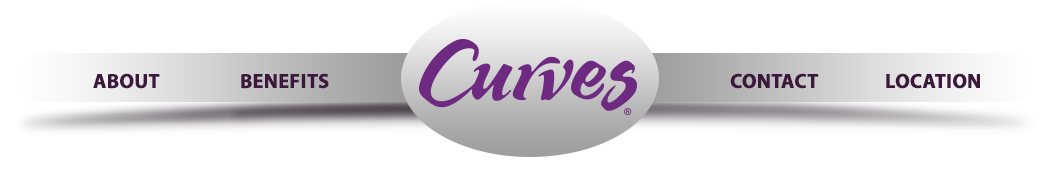
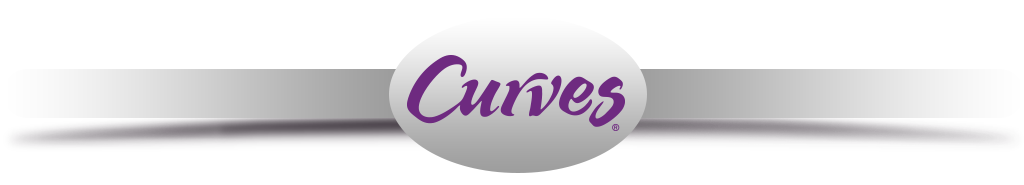
panel2
Added everything to panel 2, not fully responsive yet.

diff --git a/index.html b/index.html
@@ -11,7 +11,14 @@
 <body>
 	<div id="wrapper">
 		<div id="panel1" class="row">
-			<div class="col-lg-12"><img src="images/header.png" /></div>
+			<div id="navigation">
+				<ul>
+					<li class="navLeft"><a href="#rightCol2">about</a></li>
+					<li class="navLeft"><a href="#benefitsTop">benefits</a></li>
+					<li class="navRight"><a href="#">contact</a></li>
+					<li class="navRight"><a href="#">location</a></li>
+				</ul>
+			</div>
 			<div id="leftCol" class="col-lg-6"><img src="images/jillian1.png" /></div>
 			<div id="rightCol" class="col-lg-6">
 				<div id="spacer1"></div>
@@ -34,7 +41,55 @@
 
 			</div>
 		</div>
-	</div>
+	</div><!-- Panel 1 -->
+	<div class="row" id="dropShadow"></div>
+	
+	<div id="panel2">
+		<div id="spacer2"></div>
+			<div id="panel2height">
+			<div class="col-lg-4"><div id="leftColSpacer"></div> <img src="images/group.jpg"></div>
+			<div id="rightCol2" class="col-lg-8">
+				<p id="italic">Imagine being guided and mentored by <span>America's leading female fitness professional.</span> In real time. In a setting that allows for a connection between Jillian and yourself.<br>
+	It's all possible now with our exclusive videos tailored to Curves' state-of-the-art equipment.</p>
+	<p id="nonItalic">
+	You can work out with Jillian for as little as <span>$12 per week</span>, just minutes from your home in Port Jefferson Station.
+				</p>
+			</div>
+			<hr></hr>
+
+			<div id="typicalFitness" class="row">
+				<p>
+					Curves is <strong>not</strong> your typical fitness center.<br> 
+	In addition to our exclusive Jillian Michaels workouts, you'll find:
+				</p>
+			</div>
+
+			<div id="benefitsTop" class="row benefits">
+				<div class="col-lg-6">
+					
+							<p><img class="checkBox" src="images/checkBox.jpg" ><span>Curves Smart Technology</span><br>
+								A personalized platform to track/manage your workouts and nutrition</p>
+				</div>
+
+				<div class="col-lg-6">
+						<p><img class="checkBox" src="images/checkBox.jpg" ><span>Half Hour Computerized Programs</span><br>
+							Fully automated combination of strength and cardio allows you to work all major muscle groups in only 30 minutes  </p>
+				</div>
+			</div>
+
+			<div id="benefitsBottom" class="row benefits">
+				<div class="col-lg-6">
+						<p><img class="checkBox" src="images/checkBox.jpg" ><span>Women-Only Policy</span><br>
+							Work out in a comfortable and non-intimidating setting  </p>
+				</div>
+
+				<div class="col-lg-6">
+						<p><img class="checkBox" src="images/checkBox.jpg" ><span>One-On-One Guidance</span><br>
+							In-person coaching from our medically trained, in-house physical 	therapists </p>
+				</div>
+			</div>
+		</div>
+	</div><!-- Panel 2 -->
 
 <script src="http://code.jquery.com/jquery.js"></script>
 <script src="js/style.js"></script>

diff --git a/css/style.css b/css/style.css
@@ -23,6 +23,11 @@ CURVES
  * © 2014 MyFonts Inc
 */
 
+body {
+	margin: 0 auto;
+	padding: 0;
+}
+
 #wrapper {
 	width: 100%;
 	margin: 0 auto;
@@ -55,7 +60,51 @@ PANEL 1
 
 }
 
-#leftCol {
+#navigation{
+	background: url(../images/header.png) no-repeat center;
+	margin: 0 auto;
+	height: 185px;
+	width: 1024px;
+	font-family: helvetica;
+	font-size: 20pt;
+	font-variant: small-caps;
+	font-weight: bold;
+}
+
+#navigation ul{
+	text-decoration: none;
+	list-style: none;
+}
+
+#navigation a{
+	color: #3c183c;
+}
+
+#navigation a:hover {
+	text-decoration: none;
+	color: #5d245d;
+}
+
+#navigation .navLeft {
+	float: left;
+	text-decoration: none;
+	margin-top: 73px;
+	padding-left: 65px;
+}
+
+#navigation .navRight {
+	float: right;
+	text-decoration: none;
+	margin-top: 73px;
+	padding-right: 65px;
+}
+
+#panel1 #rightCol {
+
+}
+
+#panel1 #leftCol {
+
 }
 
 #panel1 #line1 {
@@ -136,8 +185,104 @@ PANEL 1
 	box-shadow: inset 3px 3px 15px -1px black;
 }
 
+/********************
+PANEL 2
+********************/
 
+#dropShadow {
+	background: url(../images/dropShadow.jpg)no-repeat center;
+	margin: 0 auto;
+	height:31px;
+}
 
+#panel2 {
+	background: white;
+	background-size: cover;
+	width: 70%;
+	margin: 0 auto;
+}
 
+hr {
+	width: 100%;
+	margin: 0 auto;
+	background-color: #e5be0e;
+	height: 2px;
+	margin-top: 10px;
+}
+
+#panel2 p {
+	font-family: HelveticaNeue-Light, helvetica;
+	font-size: 20pt;
+	color: #423f40;
+}
+
+#panel2 #rightCol2 #italic span{
+	color: #e5be0e;
+	font-style: italic;
+	font-weight: bold;
+}
+
+#panel2 #rightCol2 #nonItalic span{
+	color: #e5be0e;
+	font-weight: bold;
+}
+
+#leftColSpacer{
+	height: 50px;
+}
+
+#rightCol2 {
+	margin-bottom: 20px;
+}
+
+#typicalFitness {
+	font-family: helveticaNue-Light, helvetica;
+	font-size: 20pt;
+	color: #423f40;
+	text-align: center;
+	margin: 0 auto;
+	width: 80%;
+	margin-top: 20px;
+	margin-bottom: 50px;
+}
+
+#benefitsTop{
+	padding-bottom: 50px;
+}
+
+.checkBox {
+	float: left;
+	padding-bottom: 100px;
+}
+
+.benefits {
+}
+
+#benefitsTop p{
+	font-family: helveticaNue-Light, helvetica;
+	font-size: 18pt;
+	color: #423f40;
+	font-weight: lighter;
+}
+
+#benefitsTop span{
+	font-weight: bold;
+}
+
+#benefitsBottom p{
+	font-family: helveticaNue-Light, helvetica;
+	font-size: 18pt;
+	color: #423f40;
+	font-weight: lighter;
+}
+
+#benefitsBottom span{
+	font-weight: bold;
+}
+
+#panel2height {
+	padding-bottom: 50px;
+	padding-top: 50px;
+}
 
 

diff --git a/js/style.js b/js/style.js
@@ -14,6 +14,8 @@ $(document).ready(function(){
 
 	setSpacerDiv4();
 
+	setSpacerDivL();
+
 });
 
 $(window).resize(function(){
@@ -29,6 +31,8 @@ $(window).resize(function(){
 	setSpacerDiv3();
 
 	setSpacerDiv4();
+
+	setSpacerDivL();
 
 });
 
@@ -52,7 +56,7 @@ function setSpacerDiv1(){
 }
 
 function setSpacerDiv2(){
-	var contentHeight = $('#leftColumn').outerHeight(true);
+	var contentHeight = $('#panel2height').outerHeight(true);
 
 	var emptySpace = $(window).height() - contentHeight;
 
@@ -75,6 +79,13 @@ function setSpacerDiv4(){
 	$("#spacer4").height(emptySpace/2);
 }
 
+//function setSpacerDivL(){
+//	var contentHeight = $("#leftCol2").outerHeight(true);
+
+//	var emptySpace = $(window).height() - contentHeight;
+
+//	$("#leftColSpacer").height(emptySpace/2);
+//}
 
 
 
